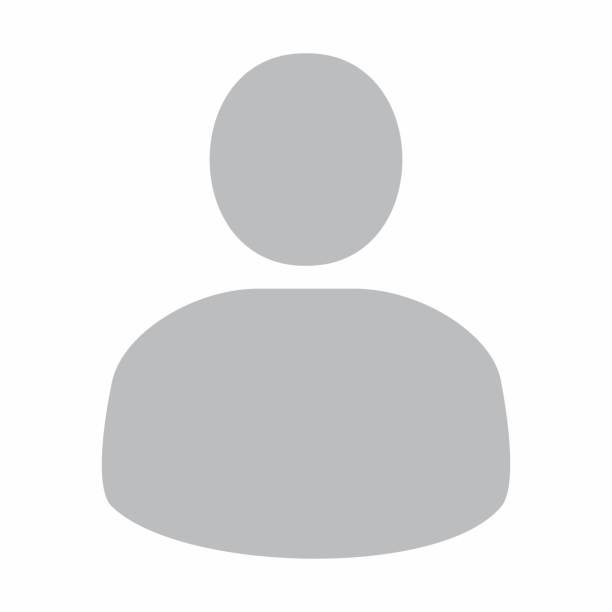
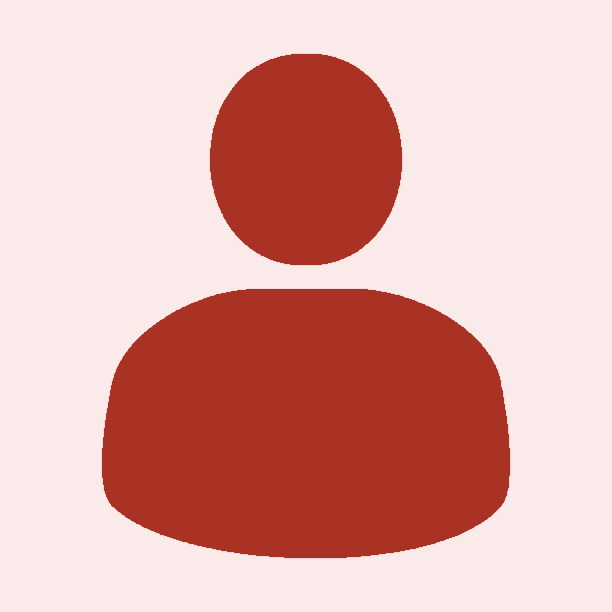
started the indi grades page

diff --git a/master_samonte.css b/master_samonte.css
@@ -52,6 +52,22 @@ body {
   margin-bottom: 0 !important;
 }
 
+.grades-item {
+  background-color: #F9EBEA;
+  color: #A93226;
+  margin-bottom: 10px;
+  border-radius: 10px;
+  padding: 20px;
+}
+
+.grades-item h5 {
+  margin-top: 5px;
+}
+
+.grades-active {
+  background-color: #FCF3CF;
+}
+
 .heading {
   margin-top: 50px;
   margin-bottom: 30px;
@@ -100,6 +116,14 @@ body {
 .profile-pic {
   max-width: 150px;
   margin-bottom: 10px;
+}
+
+.results-content {
+  padding: 10px;
+}
+
+.results-content h3 {
+  color: #A93226;
 }
 
 .side-content {

diff --git a/grades-indi.html b/grades-indi.html
@@ -8,7 +8,7 @@
   <!-- Bootstrap CSS -->
   <link href="https://cdn.jsdelivr.net/npm/bootstrap@5.1.3/dist/css/bootstrap.min.css" rel="stylesheet" integrity="sha384-1BmE4kWBq78iYhFldvKuhfTAU6auU8tT94WrHftjDbrCEXSU1oBoqyl2QvZ6jIW3" crossorigin="anonymous">
   <link rel="stylesheet" href="https://cdn.jsdelivr.net/npm/bootstrap-icons@1.8.1/font/bootstrap-icons.css">
-  <link rel="stylesheet" href="master.css">
+  <link rel="stylesheet" href="master_samonte.css">
 
   <title>E-nstruct</title>
 </head>
